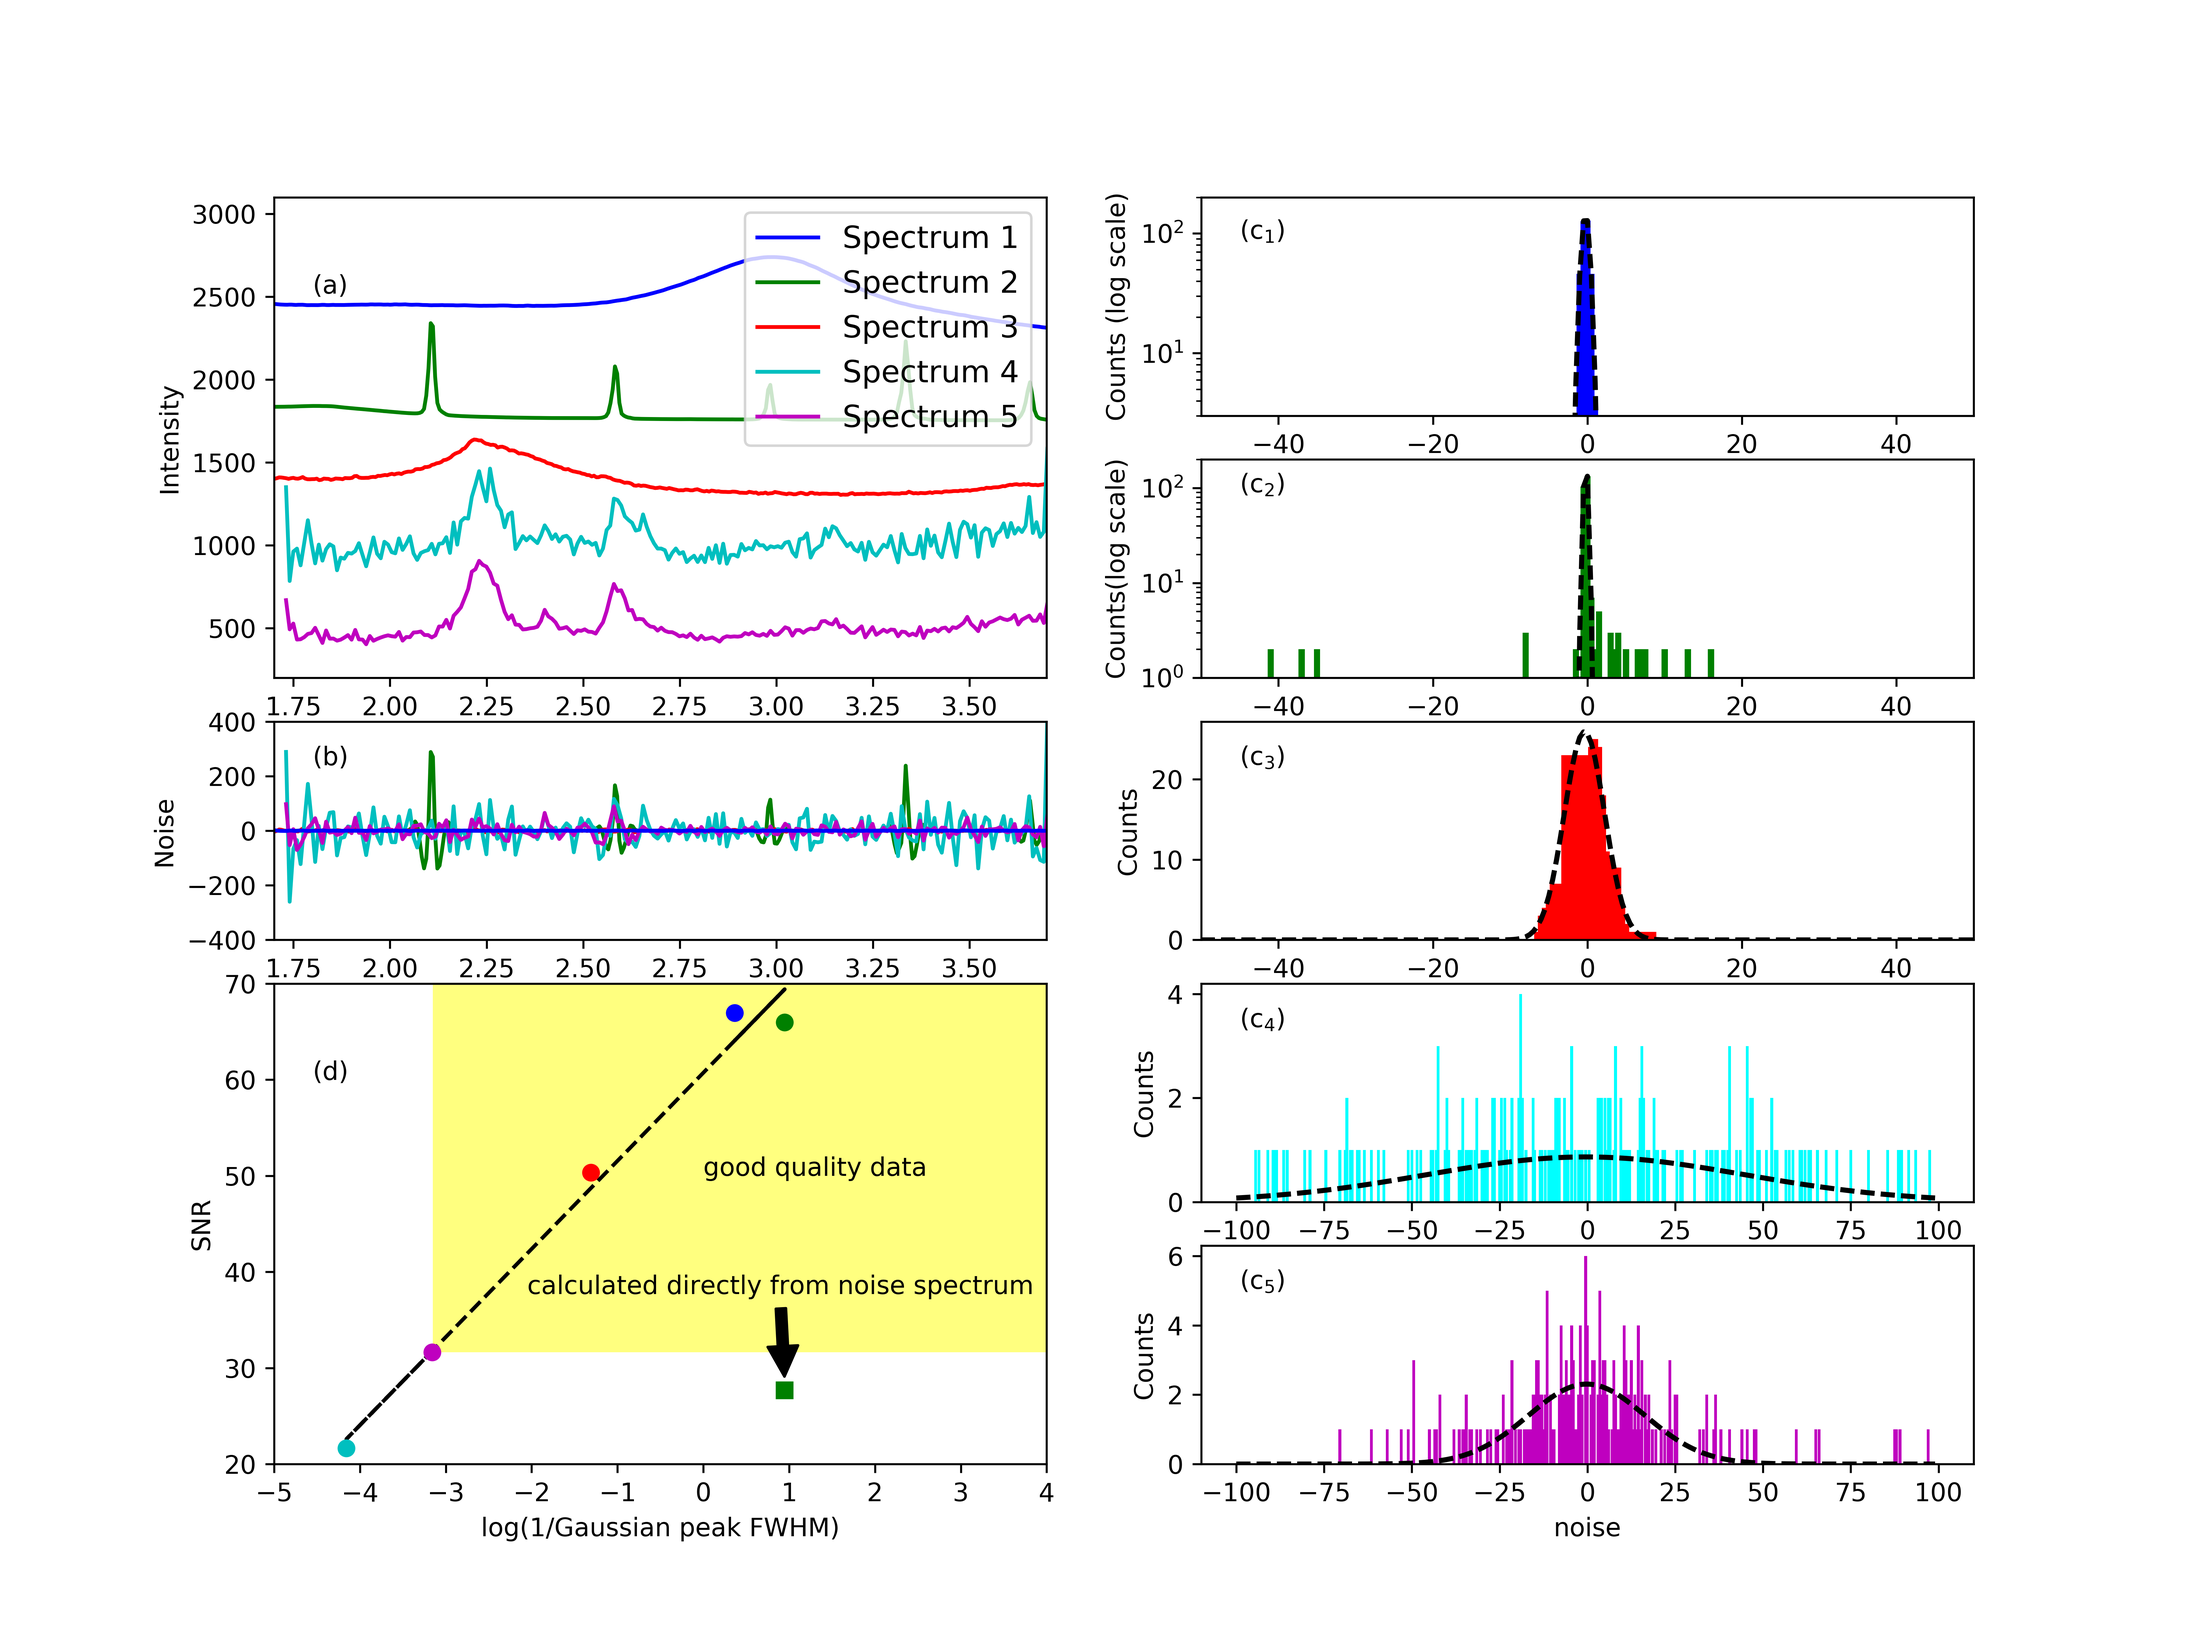
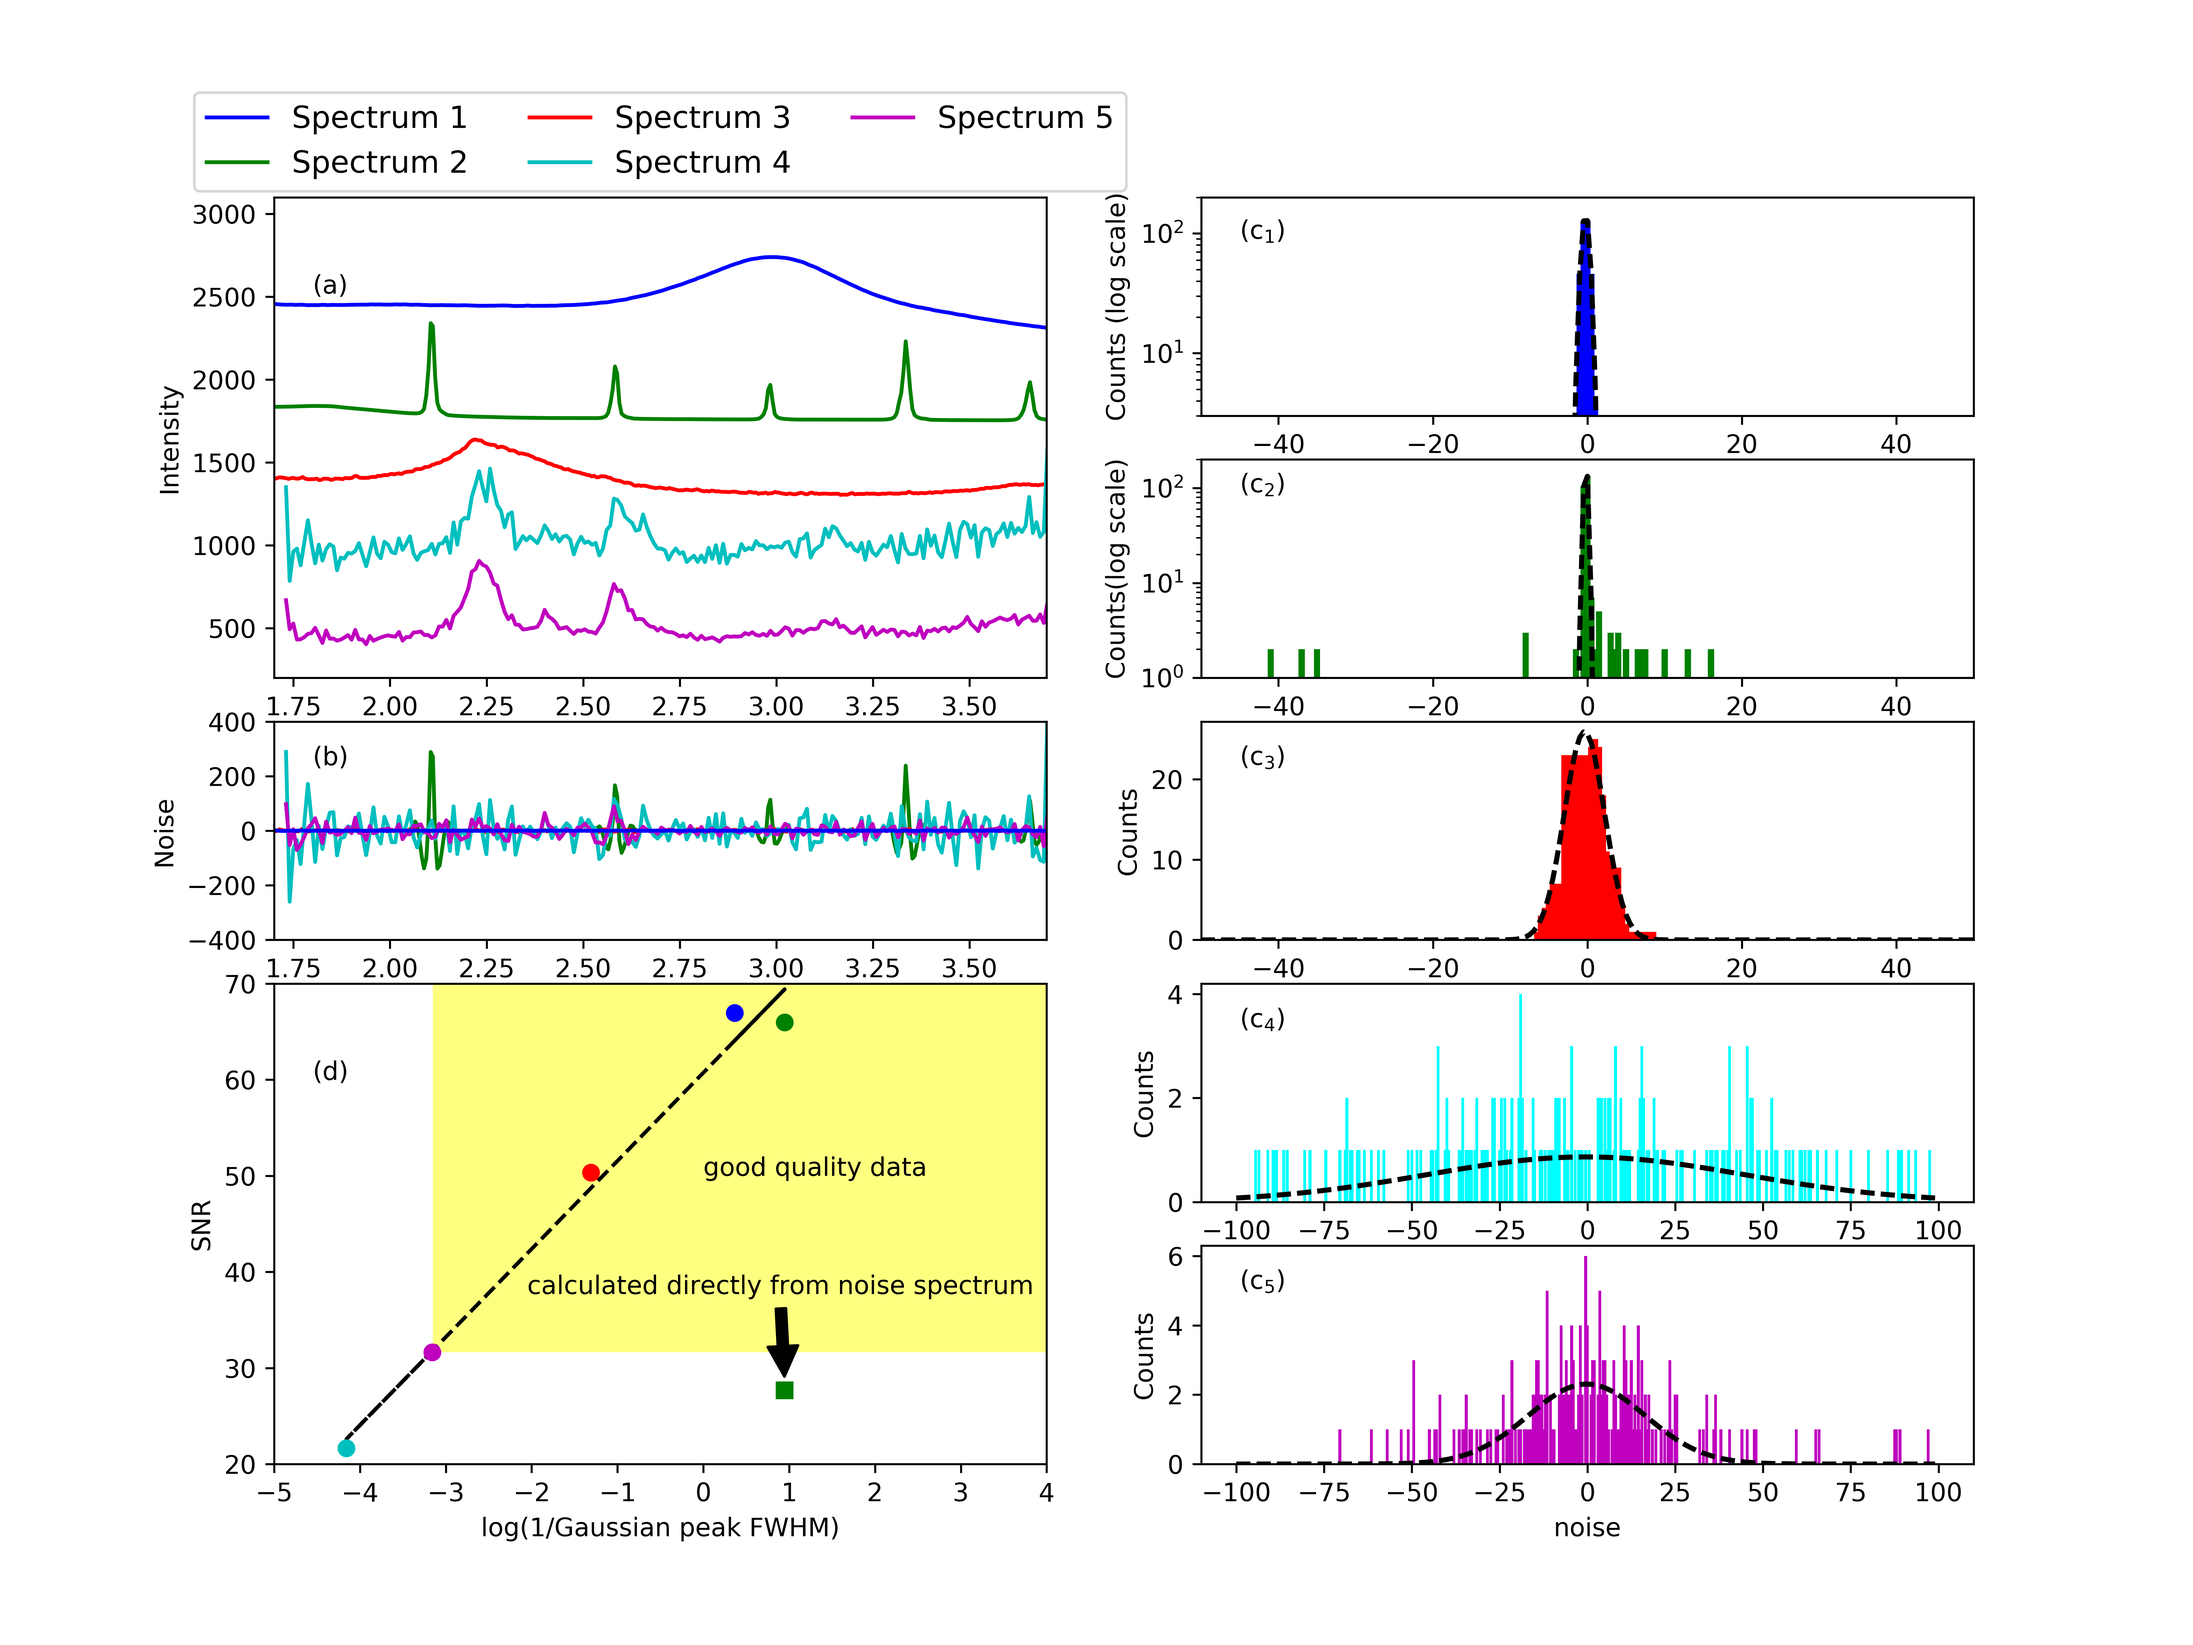
Updated Figure 3

Changed region(s): [[0.2812, 0.0622, 0.4688, 0.28], [0.0938, 0.0622, 0.2188, 0.1244], [0.4375, 0.0622, 0.4688, 0.0933]]

diff --git a/scripts/figures_for_paper/Figure3_signal_to_noise_ratio.py b/scripts/figures_for_paper/Figure3_signal_to_noise_ratio.py
@@ -102,7 +102,7 @@ plt.xlim(1.7, 3.7)
 plt.ylim(200, 3100)
 ax1.annotate('(a)', xy=get_axis_limits(ax1))
 # print '(a) is at ', get_axis_limits(ax1)
-plt.legend(fontsize = 12, loc = 1)
+plt.legend(fontsize = 12, loc='upper center', bbox_to_anchor=(0.5, 1.25), ncol=3)
 
 # ax2 = plt.subplot2grid((4,2), (1,0))
 # ax2.plot(Qlist1, IntAve_smoothed1, label = 'smoothed good data 1')
@@ -116,15 +116,16 @@ plt.legend(fontsize = 12, loc = 1)
 
 ax3 = plt.subplot2grid((5,2), (2,0))
 
-ax3.plot(Qlist2, noise2, 'g', label = 'good data 2')
-ax3.plot(Qlist3, noise3, 'r', label = 'good data 3')
-ax3.plot(Qlist4, noise4, 'c', label = 'noisy data')
-ax3.plot(Qlist4, noise_sum, 'm', label = '10x exposure time')
-ax3.plot(Qlist1, noise1, 'b', label = 'good data')
+ax3.plot(Qlist2, noise2, 'g')
+ax3.plot(Qlist3, noise3, 'r')
+ax3.plot(Qlist4, noise4, 'c')
+ax3.plot(Qlist4, noise_sum, 'm')
+ax3.plot(Qlist1, noise1, 'b')
 plt.xlabel('Q')
 plt.xlim(1.7, 3.7)
 plt.ylim(-400, 400)
 plt.ylabel('Noise')
+plt.xlabel('Q')
 ax3.annotate('(b)', xy=get_axis_limits(ax3))
 
 
